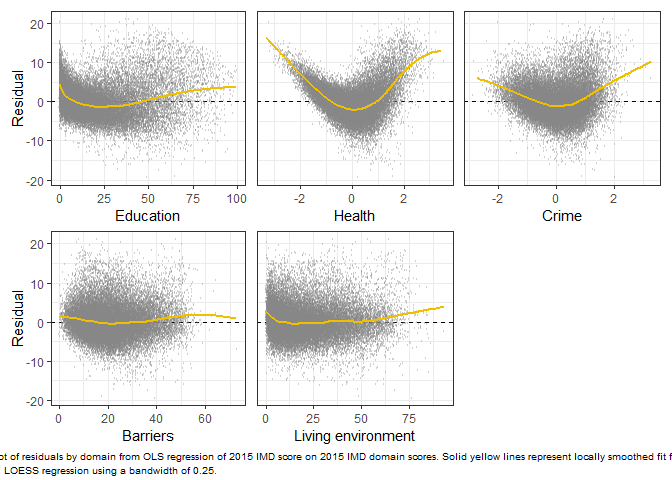
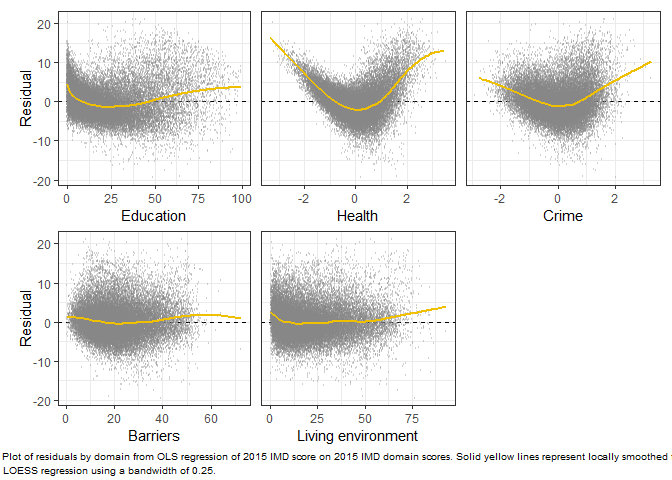
Markdown file.2

diff --git a/IMDtadj.md b/IMDtadj.md
@@ -135,6 +135,7 @@ the same across the 2010, 2015 and 2019 indices.
 
 Table 1: By-year comparison of the weighting and underlying indicators
 of five domains of IMD.
+
 <img src="C:/Users/Matt/Documents/Papers/Time Adjusted IMD/Scripts/tab1.jpg" width="100%" style="display: block; margin: auto;" />
 
 Even after accounting for a few minor differences, the weighting and
@@ -334,23 +335,24 @@ resdomC.gg <- cowplot::plot_grid(domresplots[[1]], domresplots[[2]],
                                  domresplots[[5]],nrow=2, 
                                  rel_widths = c(1.115, .94, 
                                                 .94, 1.15, .94)) +
-                       theme(plot.margin = margin(2,2, 8.5,1,"mm"))
+                       theme(plot.margin = margin(2,2, 8.5,3,"mm"))
 
 # Add plot note
 resdomC.gg <- resdomC.gg + 
-  draw_label(P1_line_1, x = .485, y = -0.02, size = 7.5) +
-  draw_label(P1_line_2, x = .1625, y = -0.05, size = 7.5)
+  draw_label(P1_line_1, x = .5, y = -0.02, size = 7.5) +
+  draw_label(P1_line_2, x = .152, y = -0.05, size = 7.5)
 ```
 
 Figure 1: Plot of residuals by domain score.
-<img src="IMDtadj_files/figure-gfm/unnamed-chunk-14-1.png" style="display: block; margin: auto;" />
 
-We can see that in Figure 1 that the model residuals are generally not
-well behaved. The health domain exhibits a classic parabolic curve,
-while a less severe parabola can be seen in the crime domain. Even the
-education and living environment domains exhibit some semblance of
-non-uniformity, with systemic under-prediction occurring at the far end
-of both left and right tails.
+<img src="IMDtadj_files/figure-gfm/unnamed-chunk-14-1.png" style="display: block; margin: auto auto auto 0;" />
+
+We can sEE in Figure 1 that the model residuals are generally not well
+behaved. The health domain exhibits a classic parabolic curve, while a
+less severe parabola can be seen in the crime domain. Even the education
+and living environment domains exhibit some semblance of non-uniformity,
+with systemic under-prediction occurring at the far end of both left and
+right tails.
 
 ### MFP
 
@@ -485,6 +487,7 @@ domreg.tab <- kbl(domreg.mat, align = c(rep("c", 5))) %>%
 ```
 
 Table 2: Table of coefficient for OLS and MFP regressions by year.
+
 <table class=" lightable-classic" style="font-size: 11px; font-family: Cambria; width: auto !important; margin-left: auto; margin-right: auto;border-bottom: 0;">
 <thead>
 <tr>
@@ -1099,19 +1102,20 @@ meandifC.gg <- cowplot::ggdraw(meandifC.gg) +
            angle = 90, size = 3.88,
            fill = NA, label.color = NA) +
   # Add markdown x-axis title
-  annotate(geom = "richtext", x = .6844, y=.02155, 
+  annotate(geom = "richtext", x = .687, y=.02155, 
            label = "<i>t</i>-adjusted IMD score",
            size = 3.88,
            fill = NA, label.color = NA) +
   # Add plot note
-  theme(plot.margin = margin(2,2, 14,1, "mm")) +
+  theme(plot.margin = margin(2,2, 14,2.5, "mm")) +
   draw_label(P2_line_1, x = .5025, y = -0.0225, size = 7.5) +
   draw_label(P2_line_2, x = .472, y = -0.0465, size = 7.5) +
-  draw_label(P2_line_3, x = .466, y = -0.0725, size = 7.5)
+  draw_label(P2_line_3, x = .472, y = -0.07, size = 7.5)
 ```
 
 Figure 2: Mean difference plot by year.
-<img src="IMDtadj_files/figure-gfm/unnamed-chunk-37-1.png" style="display: block; margin: auto;" />
+
+<img src="IMDtadj_files/figure-gfm/unnamed-chunk-37-1.png" style="display: block; margin: auto auto auto 0;" />
 
 Figure 2 shows that the mean difference between IMD and *t*-adjusted IMD
 score is similar across years; strong evidence of a significant
@@ -1229,7 +1233,7 @@ dindC.gg <- cowplot::plot_grid(
   dind2010.gg + theme(legend.position = "none"),
   dind2019.gg + theme(legend.position = "none"),
   ncol=2,rel_widths = c(1, .89), labels = c(2010, 2019),
-  label_x = c(0.08, 0.78), label_y = c(1.005, 1.005),
+  label_x = c(0.08, 0.75), label_y = c(1.01, 1.01),
   label_size = 16, label_fontfamily = "serif")
 # Add legend
 legend <- get_legend(
@@ -1239,7 +1243,7 @@ legend <- get_legend(
 # Add labels and axis titles
 dindC.gg <- plot_grid(legend,dindC.gg, nrow =2, rel_heights = c(.175, .8)) +
   annotate(geom ="text", label = "IMD",
-           x = .584, y = .952, size = 3.88) +
+           x = .596, y = .964, size = 3.88) +
   annotate(geom = "text", label = "versus change in IMD", 
            x = 0.4945, y=.9175,
            size = 3.88) +
@@ -1253,7 +1257,8 @@ dindC.gg <- plot_grid(legend,dindC.gg, nrow =2, rel_heights = c(.175, .8)) +
 
 Figure 3: Bar chart of the 5-year change in time-adjusted IMD score
 versus IMD by year.
-<img src="IMDtadj_files/figure-gfm/unnamed-chunk-44-1.png" style="display: block; margin: auto;" />
+
+<img src="IMDtadj_files/figure-gfm/unnamed-chunk-44-1.png" style="display: block; margin: auto auto auto 0;" />
 
 Figure 3 shows that there is no difference between IMD rank and
 time-adjusted IMD ranks for a large majority of LSOAs. In line with
